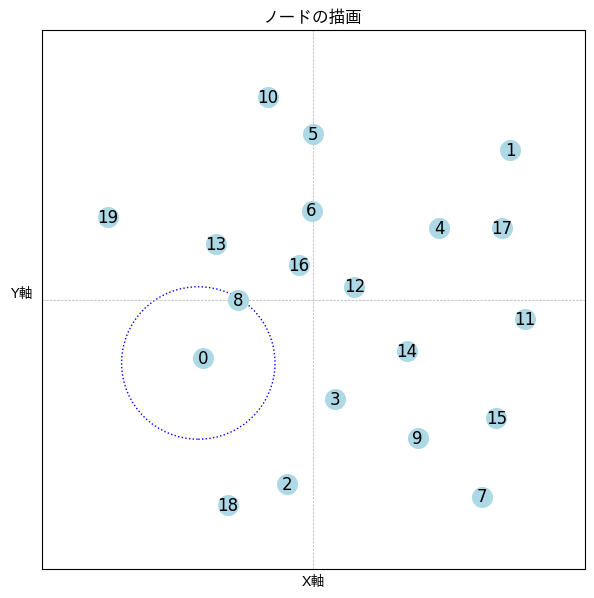
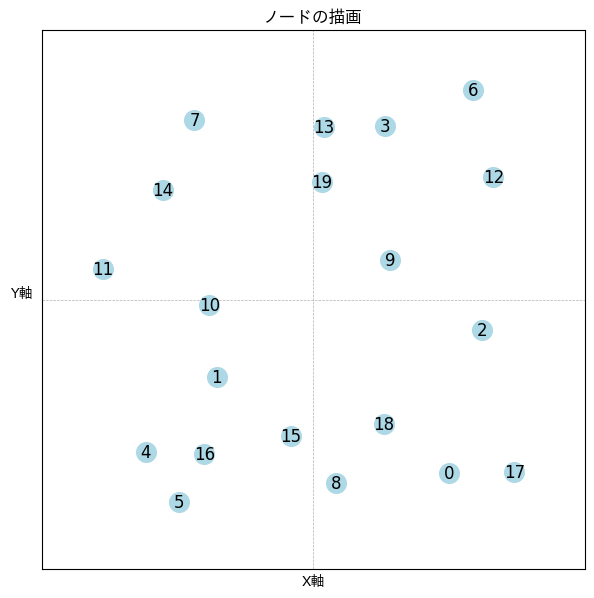
move関数の完成

diff --git a/Ad_hoc_net.py b/Ad_hoc_net.py
@@ -22,7 +22,7 @@ multiple = 2            # 円の面積の倍数(√n * pi * r^2)
 outputdir_image = "simulation_image" #imageの保存先
 outputdir_gif = "simulation_gif"     #gifの保存先
 #0の時は途中経過をgifで表示、1の時は最終結果だけを画像で表示, 2の時はノードの移動を表示
-plot_pattern = 0
+plot_pattern = 2
 num_div = 2        #セルの分割数
 dist = 2        #移動距離
 rand_dist = (-1, 1)  #移動距離用の乱数
@@ -61,9 +61,12 @@ class setting:
 
         
         self.routing = {i: [] for i in self.positions}
+        self.generate_circle()
 
-        #生成済みのノードの円の描画の準備
+    #生成済みのノードの円の描画の準備
+    def generate_circle(self):
         for node_id, (x, y) in self.positions.items():
+            #接続円をランダムに決める↓
             # self.radius[node_id] = np.random.default_rng().uniform(radius[0], radius[1])
             circle = patches.Circle((x, y), 
                                     radius=self.radius, 
@@ -143,39 +146,42 @@ class setting:
     
     # 現在のプロットを全て消去
     def clear_plot(self):
+        self.G.clear()
+        self.ax.cla()
         for circle in self.circles.values():
             circle.remove()
         self.circles.clear()
-        
-        for edge in self.ax.collection:
-            edge.remove()
-        self.ax.collections.clear()
-
 
     # ノードをランダムに動かす
     def move(self):
+        #描画されているサークルとエッジを消去する
         self.clear_plot()
-        rand = np.random.default_rng().uniform(self.rand_dist[0], self.rand_dist[1])
+        #ランダムな方向にノードを動かす
         for node_id, (x, y) in self.positions.items():
-            move_x = self.dist * rand + x
-            move_y = self.dist * rand + y
+            rand_x = np.random.default_rng().uniform(self.rand_dist[0], self.rand_dist[1])
+            rand_y = np.random.default_rng().uniform(self.rand_dist[0], self.rand_dist[1])
+            move_x = self.dist * rand_x + x
+            move_y = self.dist * rand_y + y
             move_x = max(self.node_x_range[0], min(self.node_x_range[1], move_x))
             move_y = max(self.node_y_range[0], min(self.node_y_range[1], move_y))
             self.positions[node_id] = (move_x, move_y)
-
+        #円のサークル再描画
+        self.generate_circle()
         #ノードの再描画
         self.plot_node()
-
         #エッジの再描画
         seen_routes = set() #重複した内容は格納されない 
-        for _, (node_id_1, node_id_2) in self.routing.items():
-            if (node_id_1, node_id_2) not in seen_routes:
-                self.plot_edge(node_id_1, node_id_2)
-                seen_routes.add(node_id_1, node_id_2)
+        for _, node_pare in self.routing.items():
+            for node_id in node_pare:
+                node_id_1, node_id_2 = node_id
+                route = tuple([node_id_1, node_id_2])
+                if route not in seen_routes:
+                    self.plot_edge(node_id_1, node_id_2)
+                    seen_routes.add(route)
 
     # 現在の状態を保存
     def save_image(self, frame_index = None):
-        if self.plot_pattern == 0:
+        if self.plot_pattern == 0 or self.plot_pattern == 2:
             image_filename = os.path.join(self.outputdir_image, f"simulation_{frame_index}.png")
         elif self.plot_pattern == 1 and frame_index is None:
             image_filename = os.path.join(self.outputdir_image, f"simulation_result.png")
@@ -262,6 +268,15 @@ class setting:
                     self.update_routing(node_id, parent_node)
                     self.draw()
             self.save_image()
+
+        elif self.plot_pattern == 2:
+            for parent_node in range(self.num_nodes):
+                self.draw()
+                image_files.append(self.save_image(frame_index))
+                frame_index += 1
+                self.move()
+
+            self.generate_gif(image_files)
 
     # 全体の描画 ノード0から順に円内にいるノードと接続を開始する
     def show(self):
